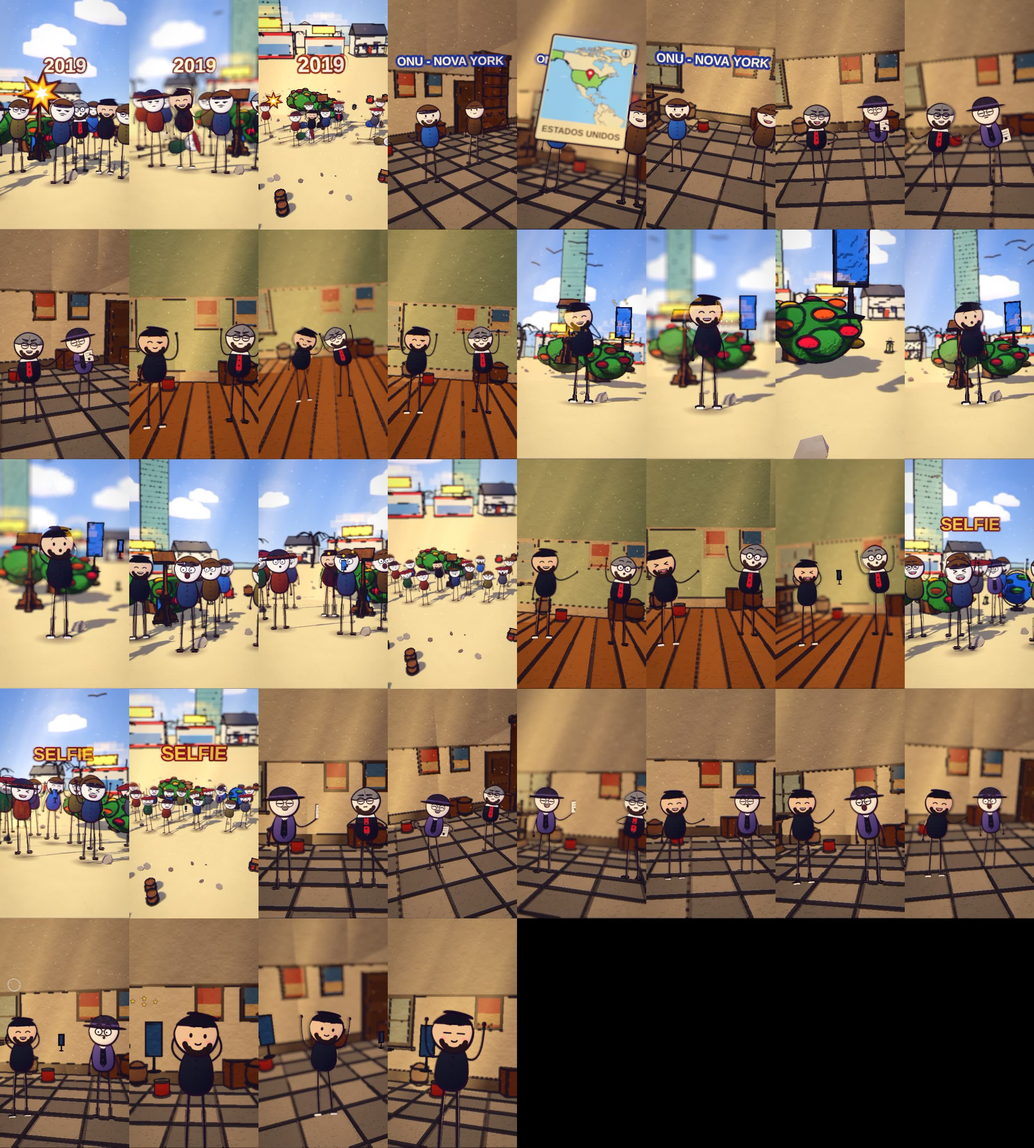
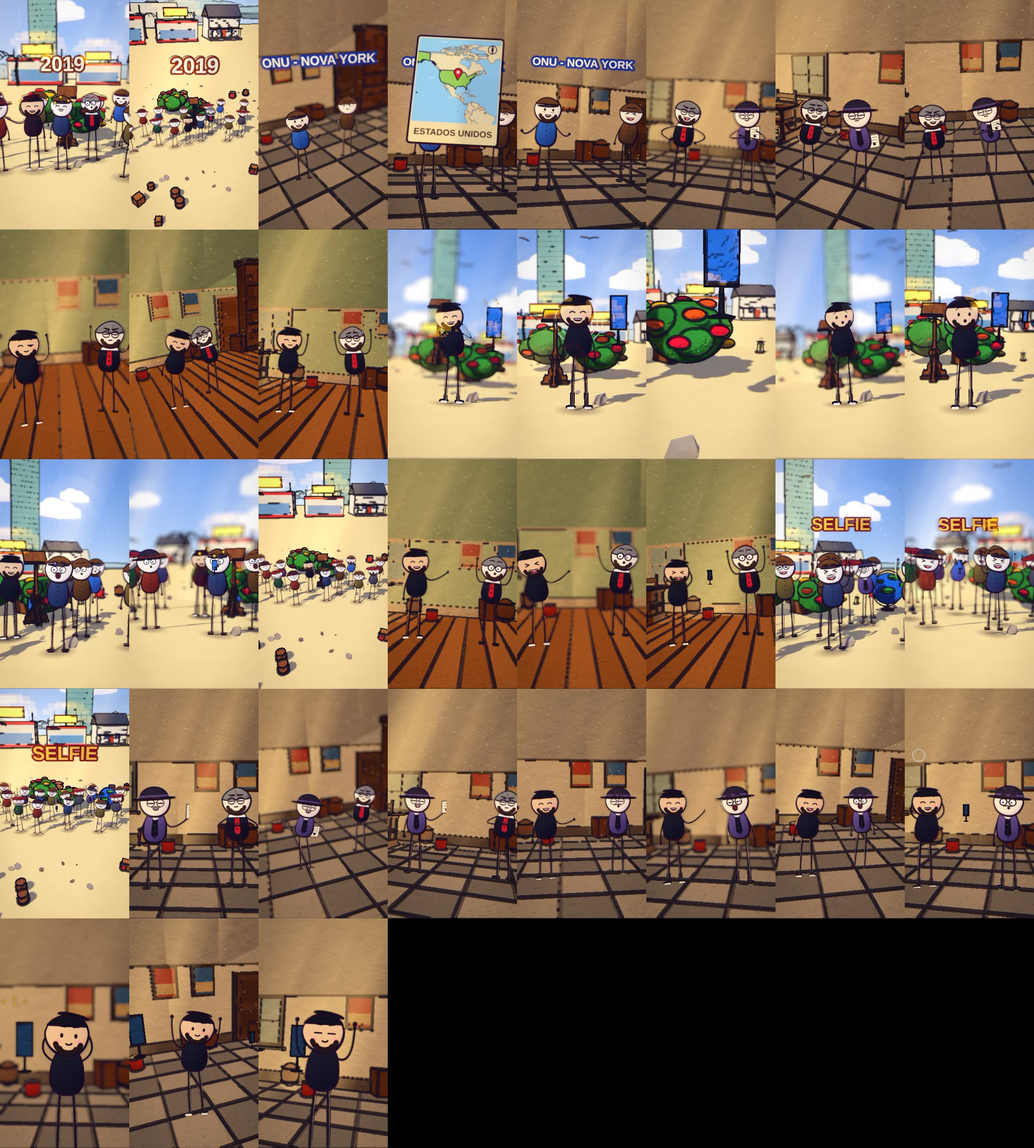
selfie aprovado (devolucao, sem queda)
Claude-Session: https://claude.ai/code/session_01WNYYpRLbWz2wGKzkvYWt5N

diff --git a/ferramenta-shorts/stories/selfie2019/fit.js b/ferramenta-shorts/stories/selfie2019/fit.js
@@ -1,1 +1,1 @@
-SPEC.fit = {"b0":1.254,"b1~2":1.12,"b3~2":1.12,"b5":1.12,"b6~2":1.12,"b7":1.12,"b8~2":1.12,"b9~3":1.12};
+SPEC.fit = {"b1~2":1.12,"b3~2":1.12,"b5":1.12,"b6~2":1.12,"b7":1.12,"b8~2":1.12,"b9~3":1.12};

diff --git a/ferramenta-shorts/stories/selfie2019/revisao_storyboard.md b/ferramenta-shorts/stories/selfie2019/revisao_storyboard.md
@@ -1,11 +1,11 @@
-b0: OK - um presidente chegou ao púlpito mais importante do mundo e antes de falar tirou uma selfie, placa 2019 com Bukele e diplomata diante de plateia com um clarão de câmera e um púlpito de madeira, cenário de praça externa e não salão da ONU
+b0: OK - um presidente chegou ao púlpito mais importante do mundo e antes de falar tirou uma selfie, placa 2019 com Bukele e diplomata diante da plateia em pé, sem ninguém caído, praça externa e não salão da ONU
 b1: OK - em setembro de dois mil e dezenove na Assembleia Geral da ONU em Nova York, texto ONU - NOVA YORK e mapa dos Estados Unidos com dois personagens conversando em sala
 b2: OK - ali os líderes de quase todos os países fazem discursos longos e sérios, diplomata e repórter com papel conversando na sala sem objetos soltos
-b3: OK - Nayib Bukele o novo presidente de El Salvador tinha só trinta e oito anos, Bukele comemorando de braços erguidos com o diplomata na sala
-b4: OK - no púlpito ele pediu só um segundo por favor e tirou o celular do bolso, close de Bukele no púlpito com o celular ao lado e efeitos
-b5: OK - virou de costas para o plenário e tirou uma selfie com todos atrás, Bukele diante da plateia com o celular na altura do rosto e clarão, plateia ao fundo
-b6: OK - depois brincou acreditem muito mais gente vai ver essa selfie do que ouvir este discurso, Bukele rindo e diplomata de braços erguidos na sala
+b3: OK - Nayib Bukele o novo presidente de El Salvador tinha só trinta e oito anos, Bukele comemorando de braços erguidos com o diplomata
+b4: OK - no púlpito ele pediu só um segundo por favor e tirou o celular do bolso, Bukele no púlpito com o celular e close do celular
+b5: OK - virou de costas para o plenário e tirou uma selfie com todos atrás, Bukele diante da plateia com o celular na altura do rosto e clarão
+b6: OK - depois brincou acreditem muito mais gente vai ver essa selfie do que ouvir este discurso, Bukele rindo e diplomata de braços erguidos
 b7: OK - ele tinha razão a foto rodou o planeta em poucas horas, texto SELFIE com multidão e globo na praça
-b8: OK - alguns acharam falta de respeito com a ONU outros acharam genial, repórter com papel e diplomata discutindo na sala
-b9: OK - no discurso ele defendeu justamente isso que as reuniões antigas deviam se adaptar à era da internet, Bukele e repórter conversando na sala
+b8: OK - alguns acharam falta de respeito com a ONU outros acharam genial, repórter com papel e diplomata discutindo
+b9: OK - no discurso ele defendeu justamente isso que as reuniões antigas deviam se adaptar à era da internet, Bukele e repórter conversando
 b10: OK - uma selfie de um segundo que ficou mais famosa que muitos discursos inteiros, Bukele comemorando em close com o celular herói ao lado
